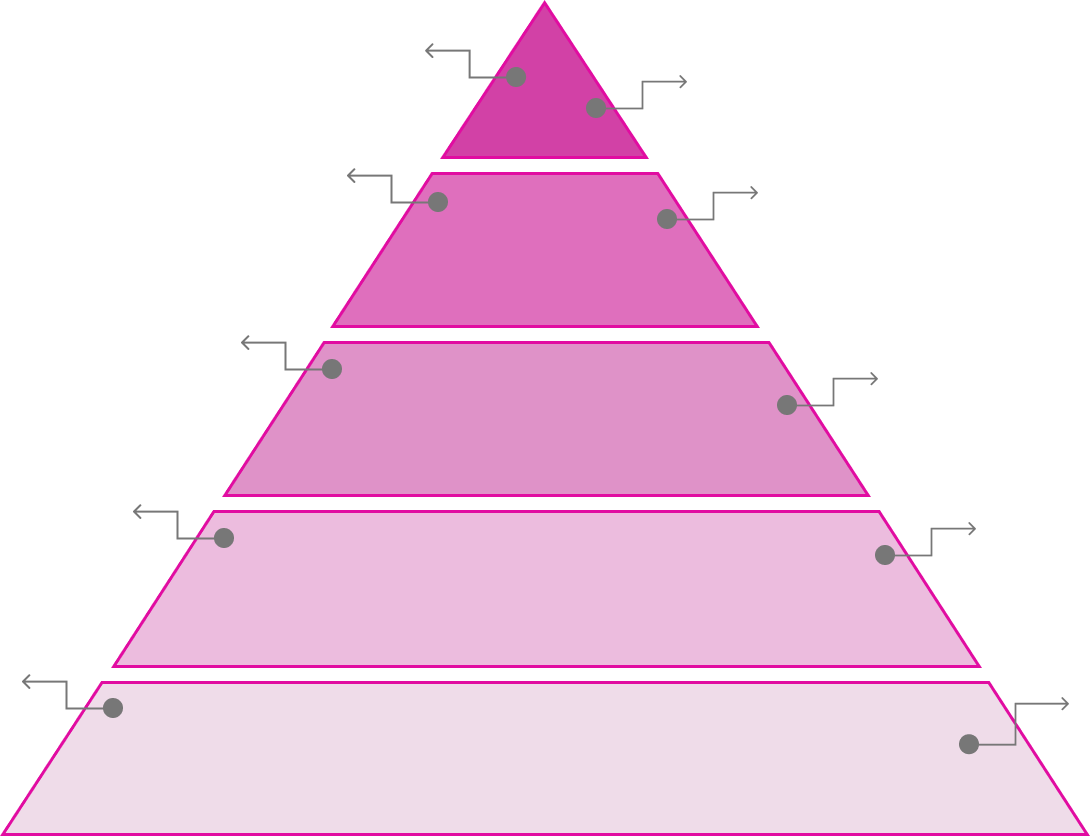
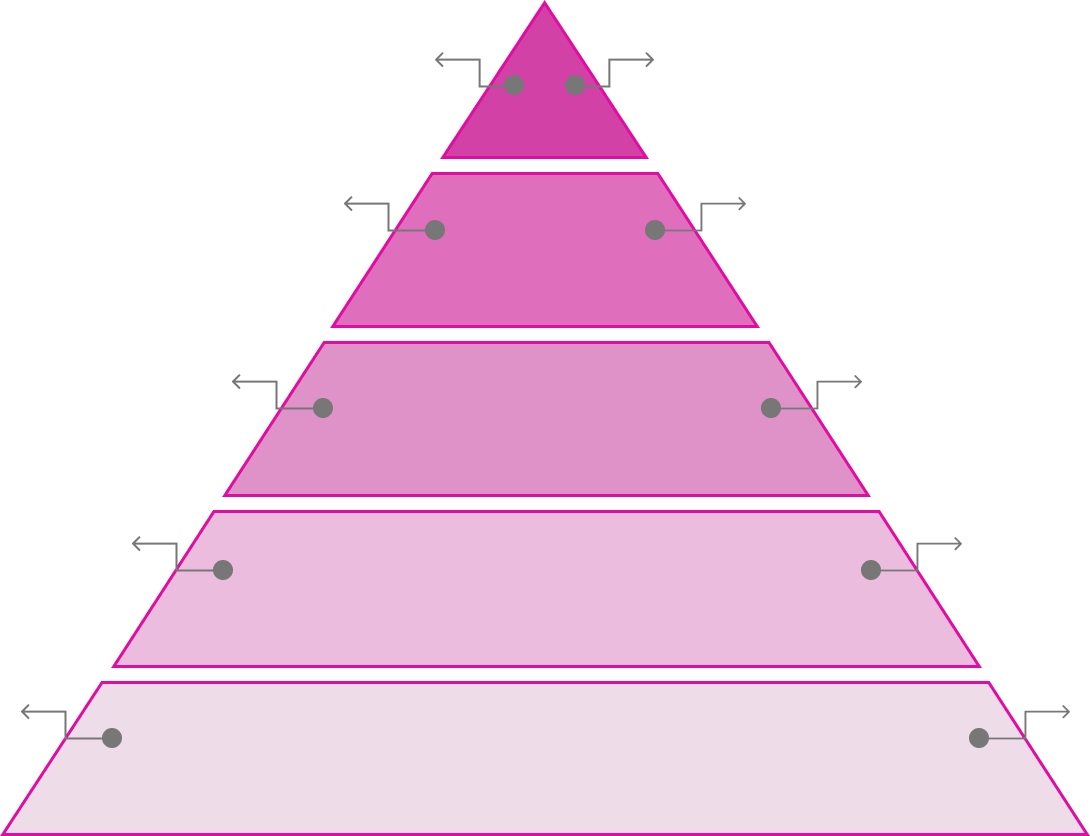
feat 스타일 조정 및 사이즈 조절, 유형 호버시 밑줄

diff --git a/src/components/Pyramid.tsx b/src/components/Pyramid.tsx
@@ -6,21 +6,21 @@ const Pyramid = forwardRef<HTMLDivElement>((props, ref) => {
       text: "💯여자친구 마음 읽기 마스터",
       targetId: "section-1",
       style: {
-        fontSize: "35px",
-        top: "20px",
-        left: "-10px",
+        fontSize: "30px",
+        top: "26px",
+        left: "-33px",
         color: "inherit",
         textDecoration: "none",
         cursor: "pointer",
       },
     },
     {
-      text: "💘텔레파시 통하는 완벽 남친",
+      text: "텔레파시 통하는 완벽 남친💘",
       targetId: "section-2",
       style: {
-        fontSize: "35px",
-        top: "55px",
-        left: "690px",
+        fontSize: "30px",
+        top: "26px",
+        left: "541px",
         color: "inherit",
         textDecoration: "none",
         cursor: "pointer",
@@ -30,21 +30,21 @@ const Pyramid = forwardRef<HTMLDivElement>((props, ref) => {
       text: "🕶눈치 백단 남친",
       targetId: "section-3",
       style: {
-        fontSize: "35px",
-        top: "145px",
-        left: "80px",
+        fontSize: "30px",
+        top: "142px",
+        left: "40px",
         color: "inherit",
         textDecoration: "none",
         cursor: "pointer",
       },
     },
     {
-      text: "🫣귀신같은 눈치남!",
+      text: "귀신같은 눈치남!👻",
       targetId: "section-4",
       style: {
-        fontSize: "35px",
-        top: "160px",
-        left: "768px",
+        fontSize: "30px",
+        top: "142px",
+        left: "615px",
         color: "inherit",
         textDecoration: "none",
         cursor: "pointer",
@@ -54,21 +54,21 @@ const Pyramid = forwardRef<HTMLDivElement>((props, ref) => {
       text: "📚센스 업그레이드형 남친",
       targetId: "section-5",
       style: {
-        fontSize: "35px",
-        top: "309px",
-        left: "-155px",
+        fontSize: "30px",
+        top: "284px",
+        left: "-158px",
         color: "inherit",
         textDecoration: "none",
         cursor: "pointer",
       },
     },
     {
-      text: "🛠센스 업그레이드 진행 중인 남친",
+      text: "센스 업그레이드 진행 중인 남친🛠",
       targetId: "section-6",
       style: {
-        fontSize: "35px",
-        top: "352px",
-        left: "885px",
+        fontSize: "30px",
+        top: "284px",
+        left: "708px",
         color: "inherit",
         textDecoration: "none",
         cursor: "pointer",
@@ -78,21 +78,21 @@ const Pyramid = forwardRef<HTMLDivElement>((props, ref) => {
       text: "💬나름 노력파 남친",
       targetId: "section-7",
       style: {
-        fontSize: "35px",
-        top: "480px",
-        left: "-165px",
+        fontSize: "30px",
+        top: "414px",
+        left: "-158px",
         color: "inherit",
         textDecoration: "none",
         cursor: "pointer",
       },
     },
     {
-      text: "🤔연애 초보 탐험가 남친",
+      text: "연애 초보 탐험가 남친🤔",
       targetId: "section-8",
       style: {
-        fontSize: "35px",
-        top: "500px",
-        left: "985px",
+        fontSize: "30px",
+        top: "414px",
+        left: "788px",
         color: "inherit",
         textDecoration: "none",
         cursor: "pointer",
@@ -102,21 +102,21 @@ const Pyramid = forwardRef<HTMLDivElement>((props, ref) => {
       text: "😅 감 잡는 중인 남친",
       targetId: "section-9",
       style: {
-        fontSize: "35px",
-        top: "650px",
-        left: "-295px",
+        fontSize: "30px",
+        top: "548px",
+        left: "-260px",
         color: "inherit",
         textDecoration: "none",
         cursor: "pointer",
       },
     },
     {
-      text: "🚨감 잡아야 하는 남친",
+      text: "감 잡아야 하는 남친🚨",
       targetId: "section-10",
       style: {
-        fontSize: "35px",
-        top: "675px",
-        left: "1080px",
+        fontSize: "30px",
+        top: "548px",
+        left: "874px",
         color: "inherit",
         textDecoration: "none",
         cursor: "pointer",
@@ -133,12 +133,21 @@ const Pyramid = forwardRef<HTMLDivElement>((props, ref) => {
     }
   };
 
+  const handleMouseEnter = (e: React.MouseEvent<HTMLParagraphElement>) => {
+    e.currentTarget.style.textDecoration = "underline";
+    e.currentTarget.style.textDecorationColor = "#E10CA1";
+  };
+
+  const handleMouseLeave = (e: React.MouseEvent<HTMLParagraphElement>) => {
+    e.currentTarget.style.textDecoration = "none";
+  };
+
   return (
     <div
       ref={ref}
       style={{
         position: "relative",
-        width: "1090px",
+        width: "800px",
         height: "836px",
         margin: "0 auto",
       }}
@@ -147,8 +156,8 @@ const Pyramid = forwardRef<HTMLDivElement>((props, ref) => {
         src="/images/pyramid.png"
         alt="Pyramid"
         style={{
-          width: "100%",
-          height: "100%",
+          width: "872px",
+          height: "669px",
           objectFit: "cover",
           position: "absolute",
           top: 0,
@@ -160,6 +169,8 @@ const Pyramid = forwardRef<HTMLDivElement>((props, ref) => {
         <p
           key={index}
           onClick={() => handleClick(item.targetId)}
+          onMouseEnter={handleMouseEnter}
+          onMouseLeave={handleMouseLeave}
           style={{
             position: "absolute",
             margin: 0,

diff --git a/src/assi/Emo.tsx b/src/assi/Emo.tsx
@@ -21,15 +21,15 @@ export default function Emo(props: EmoProps) {
       }}
     >
       <div style={{ textAlign: "center" }}>
-        <p style={{ fontSize: "40px", margin: "0", marginBottom: "20px" }}>
+        <p style={{ fontSize: "35px", margin: "0", marginBottom: "20px" }}>
           {props.typetitle}
         </p>
         <p
           style={{
-            fontSize: "35px",
+            fontSize: "30px",
             color: "#4E4E4E",
             margin: "0",
-            marginBottom: "80px",
+            marginBottom: "60px",
           }}
         >
           {props.typesubtitle}
@@ -38,15 +38,15 @@ export default function Emo(props: EmoProps) {
           src={props.imgemo}
           alt="emoticon"
           style={{
-            width: "463px",
-            height: "463px",
+            width: "380px",
+            height: "380px",
             margin: "0",
-            marginBottom: "50px",
+            marginBottom: "30px",
           }}
         />
         <p
           style={{
-            fontSize: "32px",
+            fontSize: "27px",
             color: "#E10CA1",
             margin: "0",
             marginBottom: "12px",
@@ -56,7 +56,7 @@ export default function Emo(props: EmoProps) {
         </p>
         <p
           style={{
-            fontSize: "32px",
+            fontSize: "28px",
             color: "#4E4E4E",
             margin: "0",
             whiteSpace: "pre-line",

diff --git a/src/assi/Profile.tsx b/src/assi/Profile.tsx
@@ -12,8 +12,8 @@ export default function Profile(props: ProfileProps) {
 		<div
 			style={{
 				background: "#ffffff",
-				width: "1147.5px",
-				height: "127.4px",
+				width: "1087px",
+                height: "110px",
 				border: "2px solid #7a1d36",
 				borderRadius: "20px",
 				display: "flex",
@@ -24,7 +24,7 @@ export default function Profile(props: ProfileProps) {
 			<p
 				style={{
 					width: "60px",
-					fontSize: "33px",
+					fontSize: "28px",
 					marginLeft: "31px",
 					color: props.rankColor || "#000000",
 					fontWeight: "bold",
@@ -45,7 +45,7 @@ export default function Profile(props: ProfileProps) {
 			/>
 			<p
 				style={{
-					fontSize: "33px",
+					fontSize: "28px",
 					marginLeft: "39px",
 					fontWeight: "bold",
 				}}
@@ -54,7 +54,7 @@ export default function Profile(props: ProfileProps) {
 			</p>
 			<p
 				style={{
-					fontSize: "30px",
+					fontSize: "25px",
 					marginLeft: "8px",
 					fontWeight: "bold",
 				}}
@@ -63,10 +63,10 @@ export default function Profile(props: ProfileProps) {
 			</p>
 			<p
 				style={{
-					fontSize: "33px",
+					fontSize: "28px",
 					marginLeft: "auto",
 					marginRight: "44.5px",
-					fontWeight: "bold",
+					fontWeight: "500",
 				}}
 			>
 				{props.description}

diff --git a/src/components/Ranking.tsx b/src/components/Ranking.tsx
@@ -14,7 +14,7 @@ export default function Ranking(props: any) {
     <div>
       <div
         style={{
-          width: "1410px",
+          width: "1300px",
           minHeight: "284px",
           backgroundColor: "#E10CA1",
           borderRadius: "64px",
@@ -26,8 +26,8 @@ export default function Ranking(props: any) {
         <button
           style={{
             marginTop: "101px",
-            width: "1146px",
-            height: "127px",
+            width: "1087px",
+            height: "120px",
             border: "3px solid #7a1d36",
             borderTopLeftRadius: "25px",
             borderTopRightRadius: "25px",

diff --git a/src/pages/EmoticonPages.tsx b/src/pages/EmoticonPages.tsx
@@ -59,13 +59,13 @@ function FixedHeaderPage(): React.ReactElement {
               transition: "margin-top 0.3s ease",
             }}
           />
-          <p style={{ fontSize: "42px", margin: "0px" }}>
+          <p style={{ fontSize: "38px", margin: "0px" }}>
             랭킹화면으로 돌아가기
           </p>
         </div>
       </header>
 
-      <div style={{ marginTop: "630px", marginBottom: "1000px" }}>
+      <div style={{ marginTop: "630px", marginBottom: "1000px", }}>
         <Pyramid />
       </div>
 

diff --git a/src/components/Emoticon.tsx b/src/components/Emoticon.tsx
@@ -40,7 +40,7 @@ export default function Emoticon() {
       </div>
       <div id="section-4" style={{ marginBottom: "700px" }}>
         <Emo
-          typetitle="🫣 이거 어떻게 알았어? 귀신같은 눈치남"
+          typetitle="👻 이거 어떻게 알았어? 귀신같은 눈치남"
           typesubtitle="정말 말도 안 했는데 어떻게 알았지...? 소름 돋는 직감력!"
           imgemo="/images/im4.png"
           numbersign="#여자 상태 파악 #쪽집게 #타이밍귀신 #눈치"

diff --git a/src/pages/RankingPages.tsx b/src/pages/RankingPages.tsx
@@ -35,7 +35,7 @@ export default function RankingPages() {
               cursor: "pointer",
             }} />
         </div>
-          <p style={{ fontSize: "42px", margin: "0px" }}>
+          <p style={{ fontSize: "38px", margin: "0px" }}>
             시작화면으로 돌아가기
           </p>
         </div>
